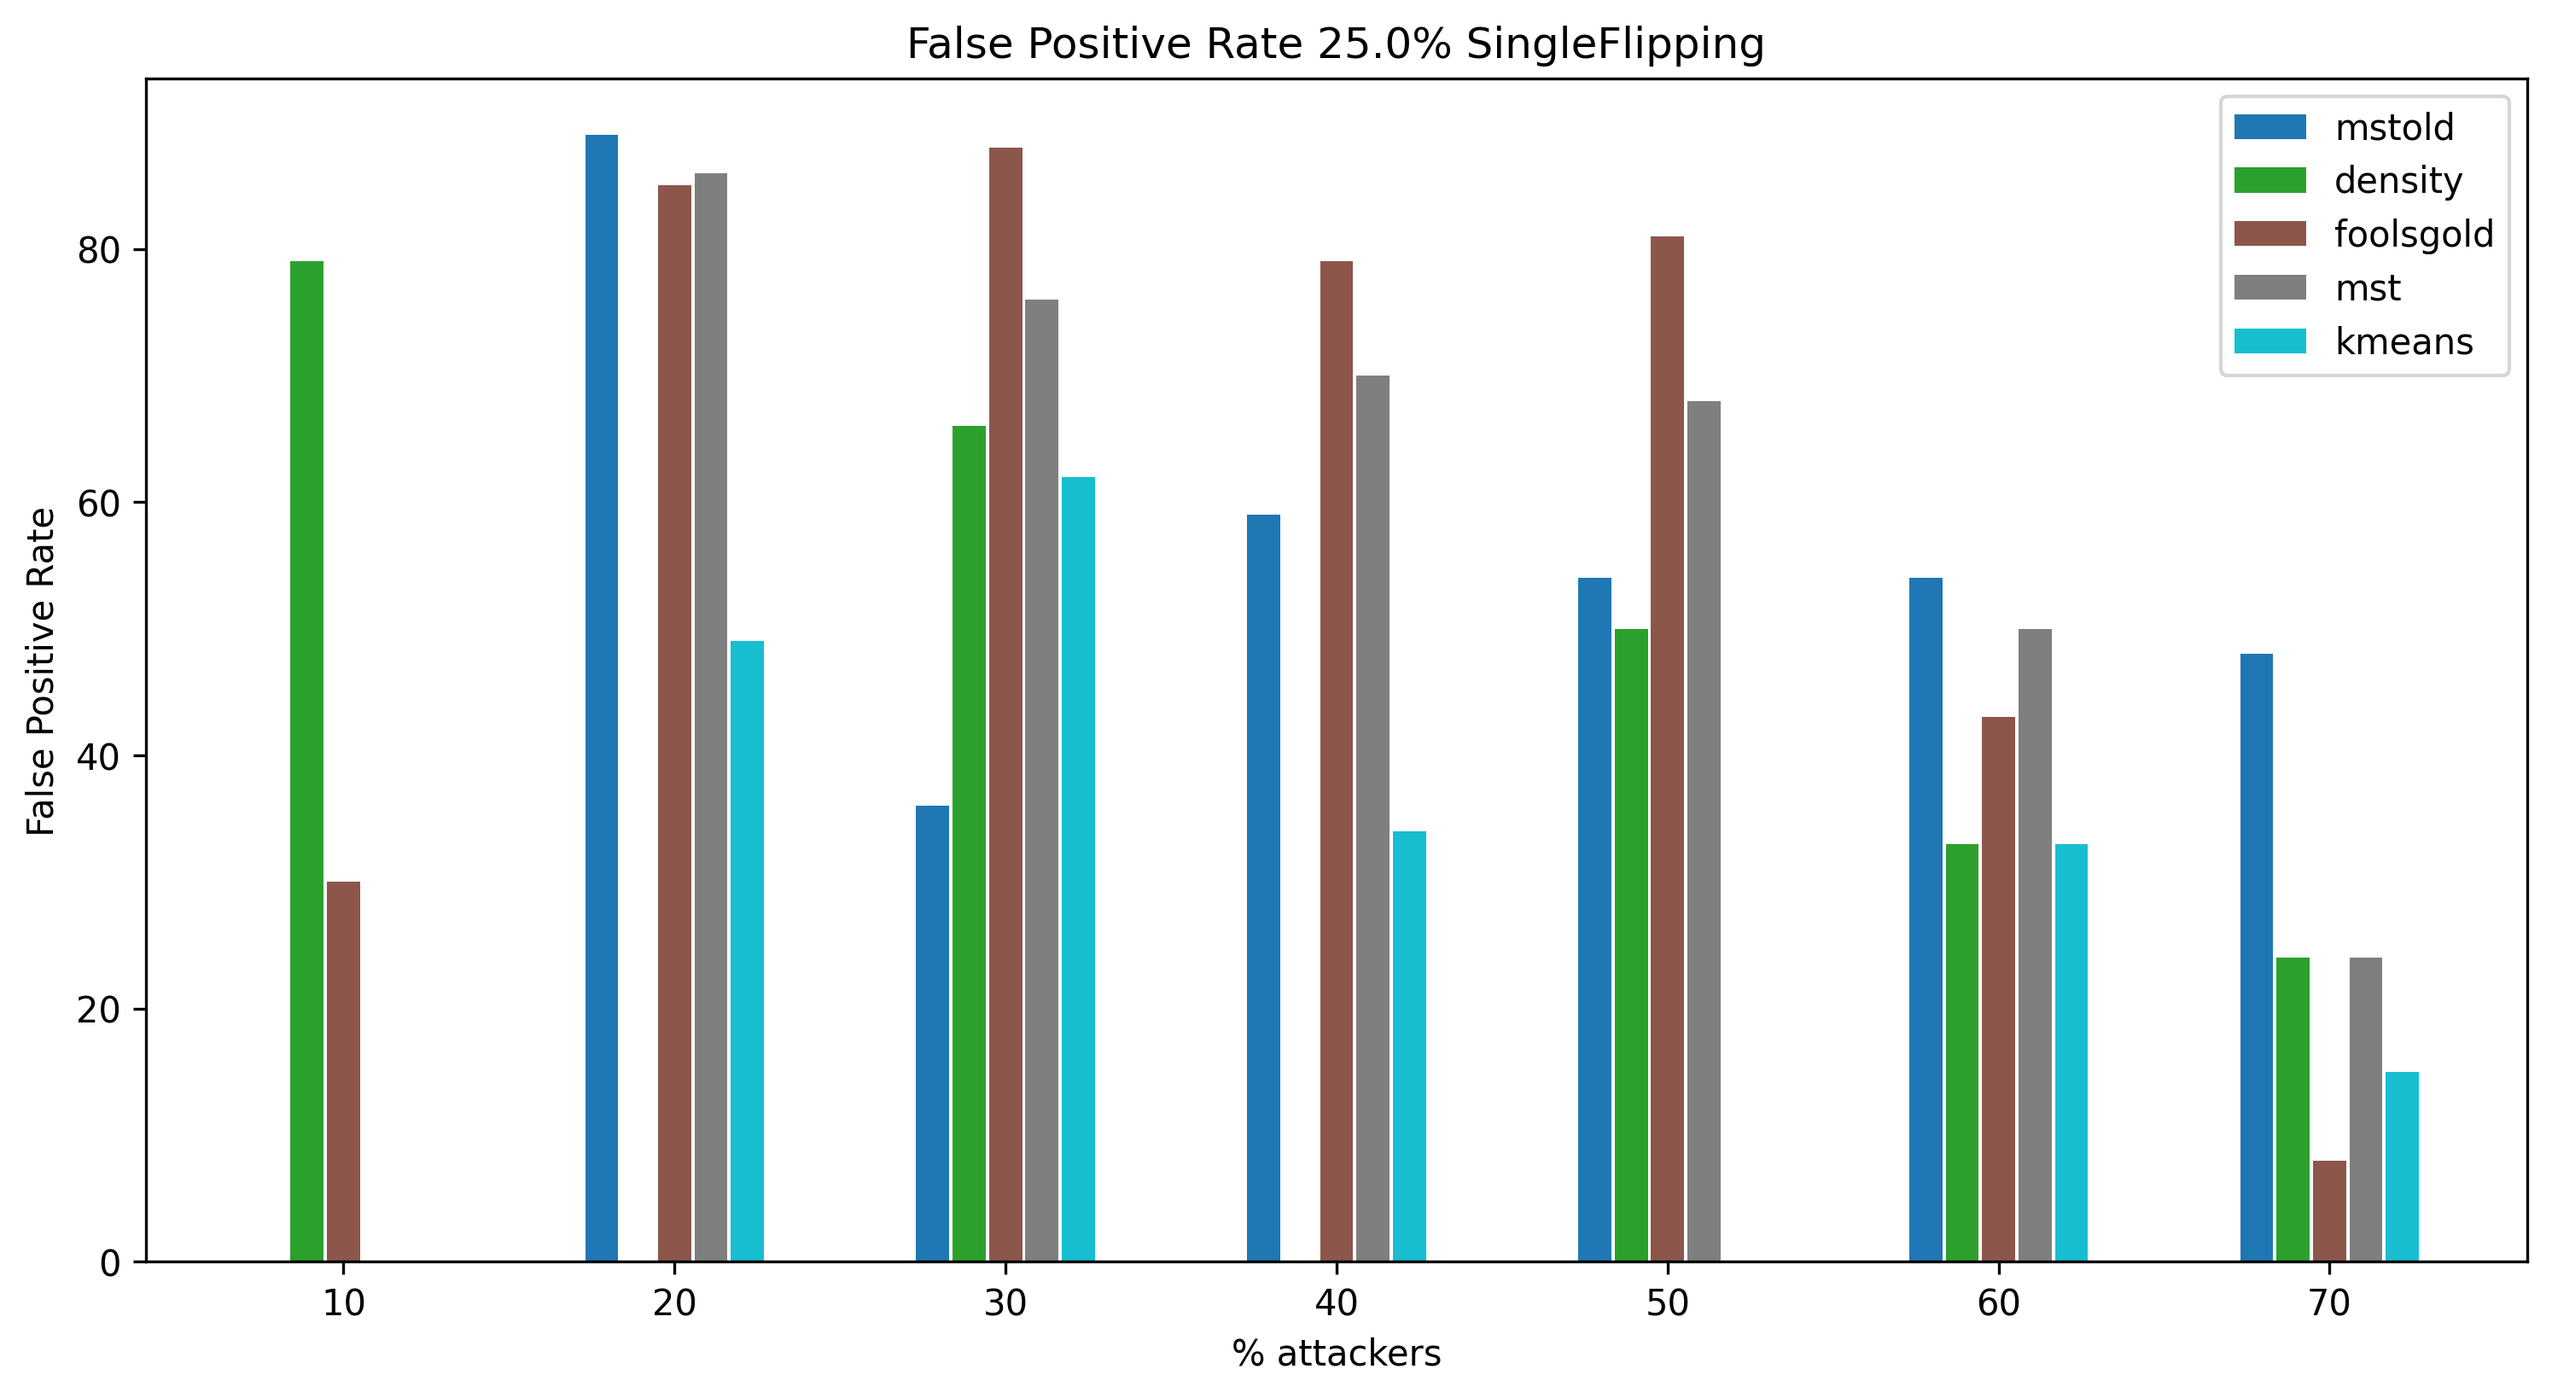
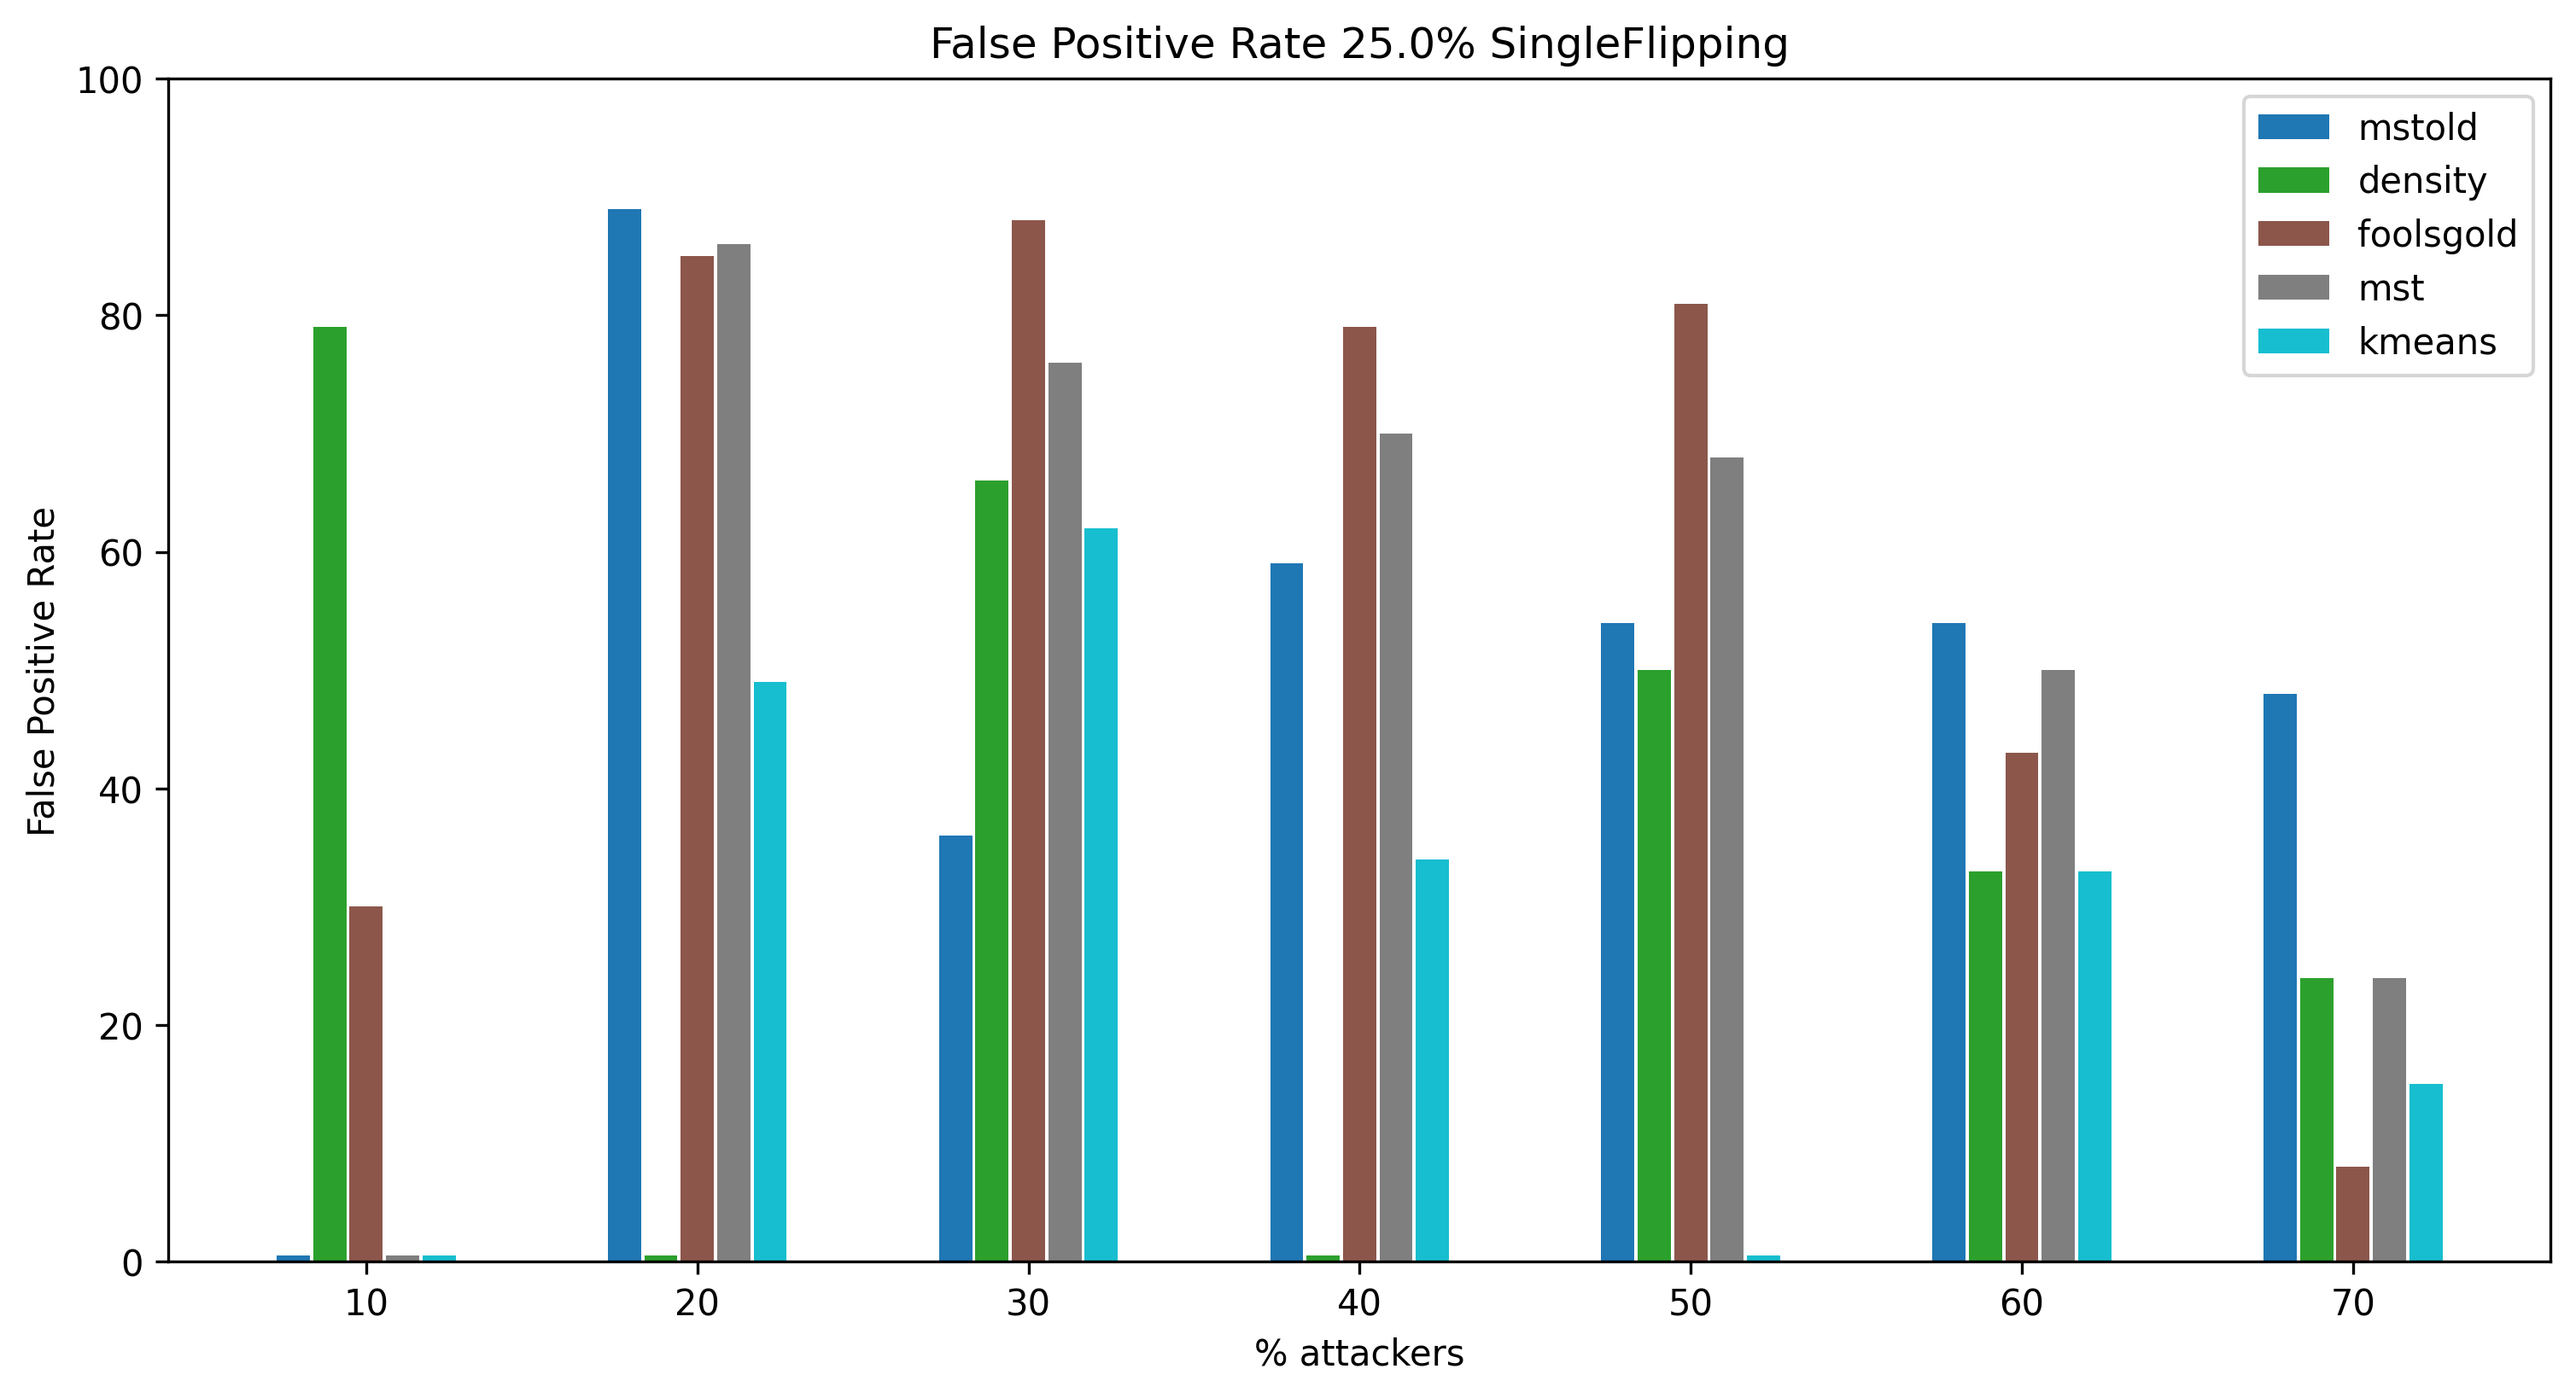
modifica ASR generator

diff --git a/plots/ASRtableGenerator.py b/plots/ASRtableGenerator.py
@@ -5,8 +5,8 @@ import glob
 import matplotlib.pyplot as plt
 
 # Percorso del file CSV (modifica questo percorso in base al tuo sistema)
-folder_path = "./logs/Mnist/ASR/"
-
+folder_path = "./plots/Mnist/ASR/"
+file = "0,50" # Cambialo in base ai file (0,25SF, 0,50SF, 0,75SF)
 
 # 🔍 Trova tutti i file CSV nella cartella
 csv_files = glob.glob(os.path.join(folder_path, "*.csv"))
@@ -16,42 +16,43 @@ combined_data = {}
 
 # 🔄 Processa ogni file CSV
 for file_path in csv_files:
-    # 📜 Estrai il nome del file
-    file_name = os.path.basename(file_path)
+    if file in file_path:
+        # 📜 Estrai il nome del file
+        file_name = os.path.basename(file_path)
 
-    # 📂 Estrai il nome del dataset (puoi modificarlo per altri dataset)
-    dataset_name = "MNIST"  
+        # 📂 Estrai il nome del dataset (puoi modificarlo per altri dataset)
+        dataset_name = "MNIST"  
 
-    # 📊 Determina se è MF o SF
-    flipping_type = "MF" if "MF" in file_name else "SF"
+        # 📊 Determina se è MF o SF
+        flipping_type = "MF" if "MF" in file_name else "SF"
 
-    # 🔢 Ottieni la percentuale di attackers dal nome del file
-    try:
-        attack_percentage = float(file_name.split(",")[0]) * 100
-    except ValueError:
-        print(f"⚠ Errore nel parsing della percentuale da {file_name}")
-        continue
+        # 🔢 Ottieni la percentuale di attackers dal nome del file
+        try:
+            attack_percentage = float(file_name.split(",")[0]) * 100
+        except ValueError:
+            print(f"⚠ Errore nel parsing della percentuale da {file_name}")
+            continue
 
-    # 📖 Carica il file CSV
-    data = pd.read_csv(file_path)
+        # 📖 Carica il file CSV
+        data = pd.read_csv(file_path)
 
-    # 📌 Aggiungi i dati alla struttura combinata
-    for index, row in data.iterrows():
-        key = (dataset_name, row["% of attackers"])  # Raggruppa per dataset e % attackers
-        if key not in combined_data:
-            combined_data[key] = {}
+        # 📌 Aggiungi i dati alla struttura combinata
+        for index, row in data.iterrows():
+            key = (dataset_name, row["% of attackers"])  # Raggruppa per dataset e % attackers
+            if key not in combined_data:
+                combined_data[key] = {}
 
-        # Aggiungi i valori per MF o SF
-        for metric in data.columns[1:]:  # Esclude la colonna "% of attackers"
-            column_name = f"{metric} {flipping_type}"
-            combined_data[key][column_name] = row[metric]
+            # Aggiungi i valori per MF o SF
+            for metric in data.columns[1:]:  # Esclude la colonna "% of attackers"
+                column_name = f"{metric} {flipping_type}"
+                combined_data[key][column_name] = row[metric]
 
 # 📊 Converti i dati in DataFrame
 df_combined = pd.DataFrame.from_dict(combined_data, orient="index").reset_index()
 df_combined.columns = ["Dataset", "% Attacker"] + list(df_combined.columns[2:])  # Rinomina le colonne
 
 # 📄 Salva la tabella in un file di testo
-output_txt = "ARStable.txt"
+output_txt = f"./logs/{dataset_name}_{file}_ARStable.txt"
 with open(output_txt, "w") as f:
     f.write(tabulate(df_combined, headers="keys", tablefmt="pretty", showindex=False))
 
@@ -72,7 +73,7 @@ table.set_fontsize(10)
 table.auto_set_column_width([i for i in range(len(df_combined.columns))])  # Imposta larghezza colonna
 
 # 📄 Salva l'immagine della tabella
-output_img = "ARStable.png"
+output_img = f"./logs/{dataset_name}_{file}_ARStable.png"
 plt.savefig(output_img, bbox_inches="tight", dpi=300)
 plt.close()
 

diff --git a/plots/graphGenerator.py b/plots/graphGenerator.py
@@ -3,8 +3,8 @@ import matplotlib.pyplot as plt
 import os
 
 # Percorso del file CSV (modifica questo percorso in base al tuo sistema)
-file_path = "./logs/Mnist/FP/0,25SF.csv"
-#file_path = "./logs/Mnist/EarlyDetection/0,50SF.csv"
+#file_path = "./logs/Mnist/FP/0,25SF.csv"
+file_path = "./logs/Mnist/EarlyDetection/0,75MF.csv"
 
 # Carica il file CSV
 data = pd.read_csv(file_path)
@@ -53,6 +53,10 @@ for idx, col in enumerate(values.columns):
     x_offset = (idx - (num_columns - 1) / 2) * (bar_width + 0.1)
     bar_values = values[col].astype(float)
 
+    # Replace zero values with a small number to make them visible (e.g., 0.1)
+    bar_values = bar_values.apply(lambda x: 0.5 if x == 0 else x)
+
+    # Disegnare le barre
     bars = plt.bar(x_positions + x_offset, bar_values, width=bar_width, label=col, color=colors(idx))
 
     # Aggiungi asterischi sopra le barre che originariamente erano '*'
@@ -60,9 +64,11 @@ for idx, col in enumerate(values.columns):
         if orig_val == "*":
             plt.text(x_positions.iloc[i] + x_offset, 31, "*", ha='center', va='bottom', fontsize=14, fontweight='bold')
 
-# Aggiungi le etichette
+# Aggiungere etichette
 plt.xlabel("% attackers")
 plt.ylabel(ylabel)
+
+# Aggiungi il titolo
 plt.title(title)
 
 # Aggiungi la legenda
@@ -70,7 +76,11 @@ plt.legend(loc="upper right")
 
 metric = "ED" if folder_name == "EarlyDetection" else "FP"
 plot_name = metric + "_" + file_name.removesuffix('.csv')
-# Save the plot
+
+if metric == "FP": 
+    plt.ylim(top=100)
+
+# Salva il grafico
 plt.savefig(f"./plots/{plot_name}.png", dpi=300, bbox_inches="tight")
 
 # Ottimizza la disposizione e mostra il grafico
